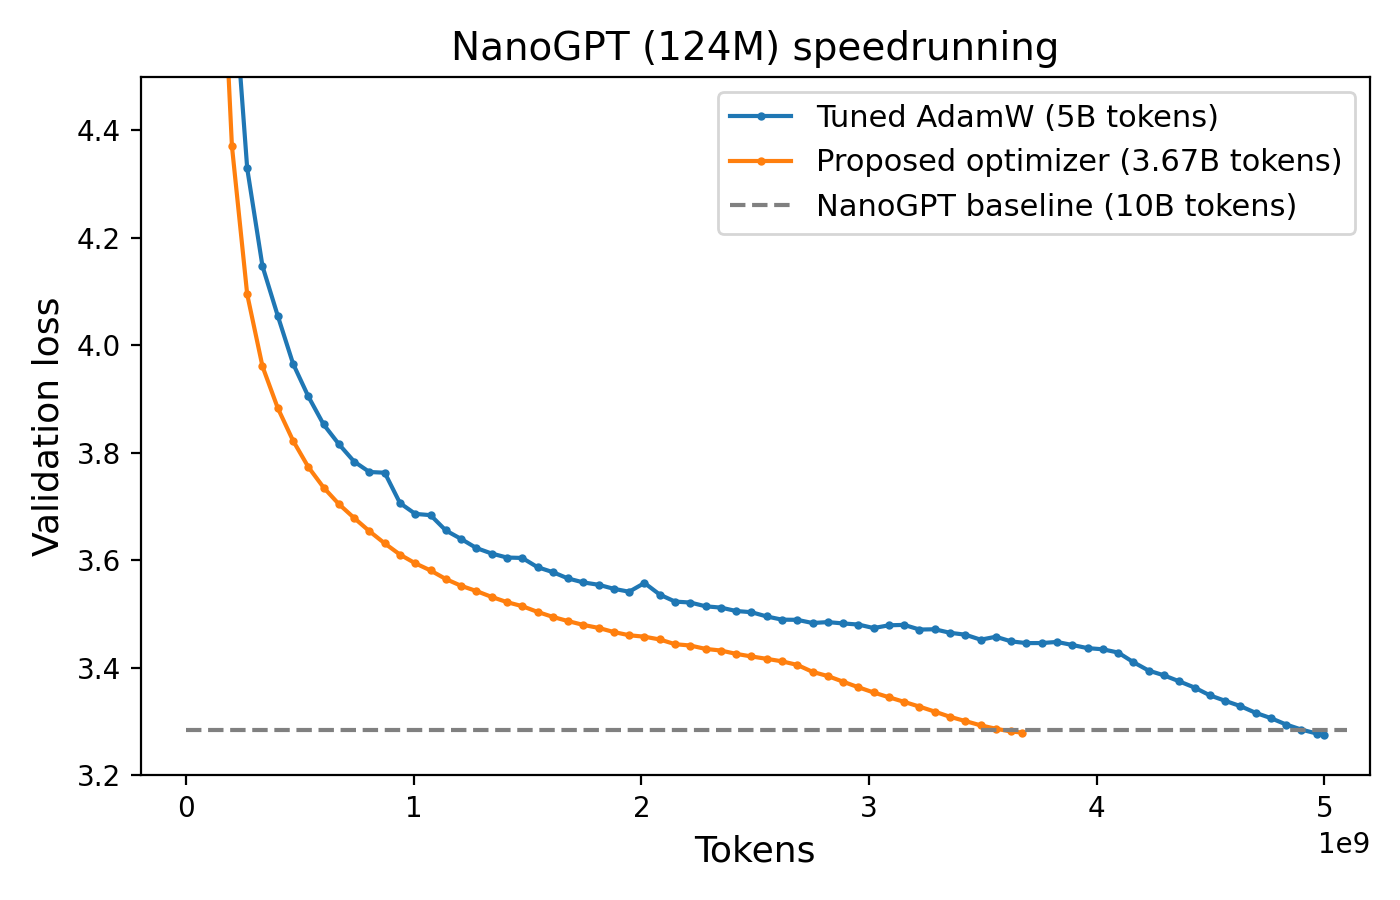
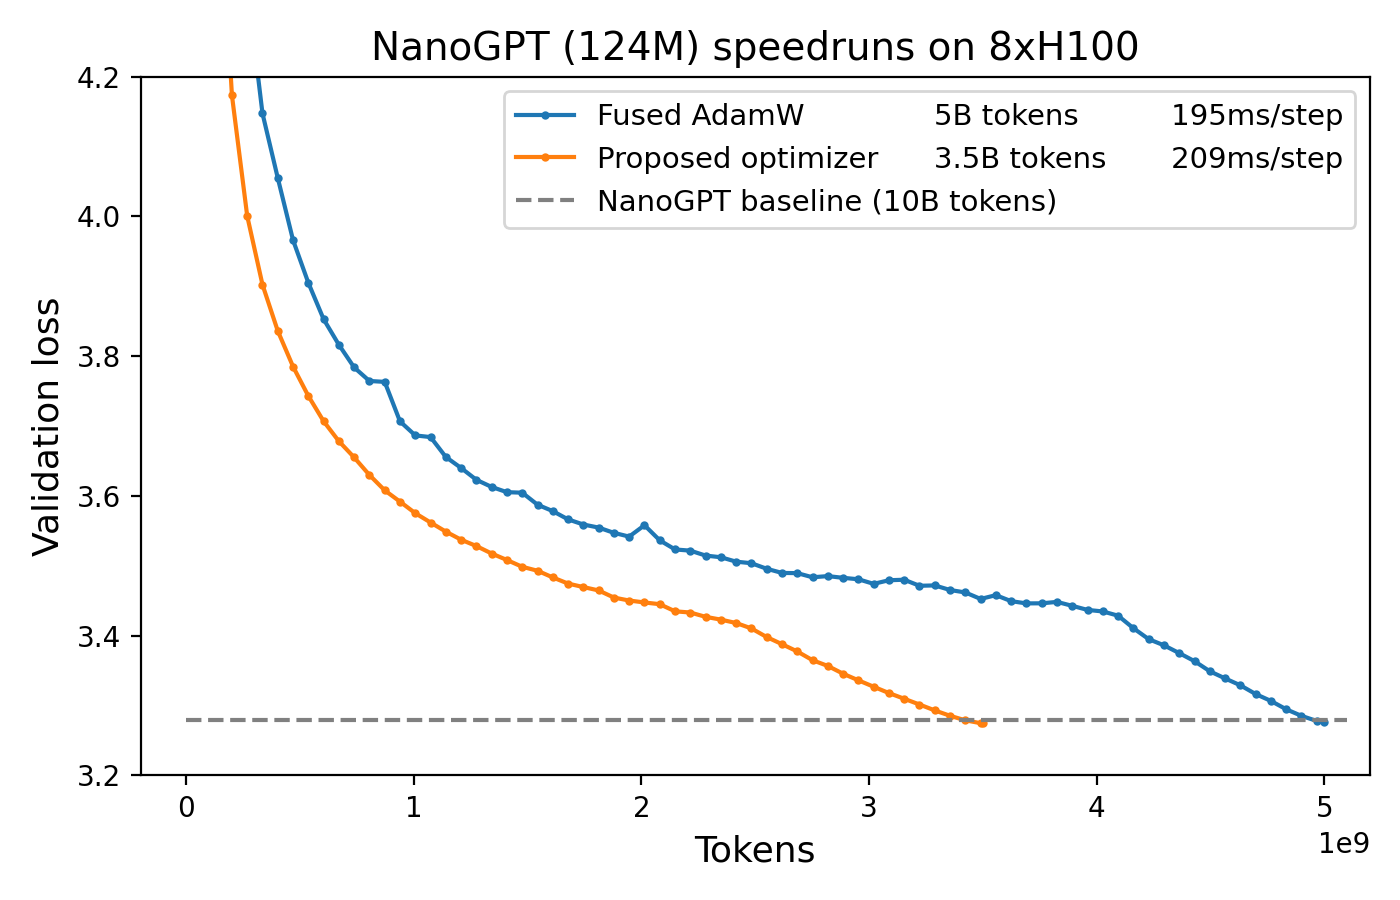
.

diff --git a/README.md b/README.md
@@ -2,8 +2,8 @@
 
 This is a variant of the [PyTorch GPT-2 trainer](https://github.com/karpathy/llm.c/blob/7b929300217ff1a974b63791a228928b39b26409/train_gpt2.py) from
 Andrej Karpathy's [llm.c](https://github.com/karpathy/llm.c) repo. It:
-* Trains 2.7x more efficiently (taking only 3.67B tokens instead of 10B to reach the same validation loss).
-* Has shorter code (497 lines instead of 860).
+* Trains 2.8x more efficiently (taking only 3.5B tokens instead of 10B to reach the same validation loss).
+* Has shorter code (499 lines instead of 860).
 * Implements architectural modernizations (rotary embeddings and RMSNorm).
 * Implements a new optimizer.
 
@@ -15,7 +15,7 @@ python data/cached_fineweb10B.py
 ./run.sh
 ```
 
-This will train a 124M-parameter transformer for 7000 steps on 3.67B tokens of Fineweb [1], achieving ~3.280 validation
+This will train a 124M-parameter transformer for 7000 steps on 3.5B tokens of Fineweb [1], achieving ~3.275 validation
 loss.
 For comparison, the default llm.c PyTorch trainer yields [~3.285 validation loss after training for 10B tokens](https://github.com/karpathy/llm.c/discussions/481).
 
@@ -32,8 +32,8 @@ Figure 1. Proposed optimizer vs. a well-tuned AdamW.
 
 For this training scenario, the proposed optimizer has the following properties:
 * Half the memory usage of Adam
-* 1.36x faster training
-* <3% wallclock overhead
+* 1.43x faster training
+* <7% wallclock overhead
 
 It is defined as follows:
 
@@ -89,7 +89,7 @@ The speedup is due to the following changes:
 - Switched to rotary embeddings
 - Removed the special initialization for linear layers before residuals. Instead, just scale down the output of the attention block by a fixed scalar.
 - Removed all affine scale and bias parameters from the architecture, and switched to RMSNorm (actually this causes a slight slowdown, and I just did it to reduce code complexity)
-- Switched from AdamW to new optimizer
+- Switched from AdamW to new optimizer, and removed learning rate warmup
 
 ---
 
